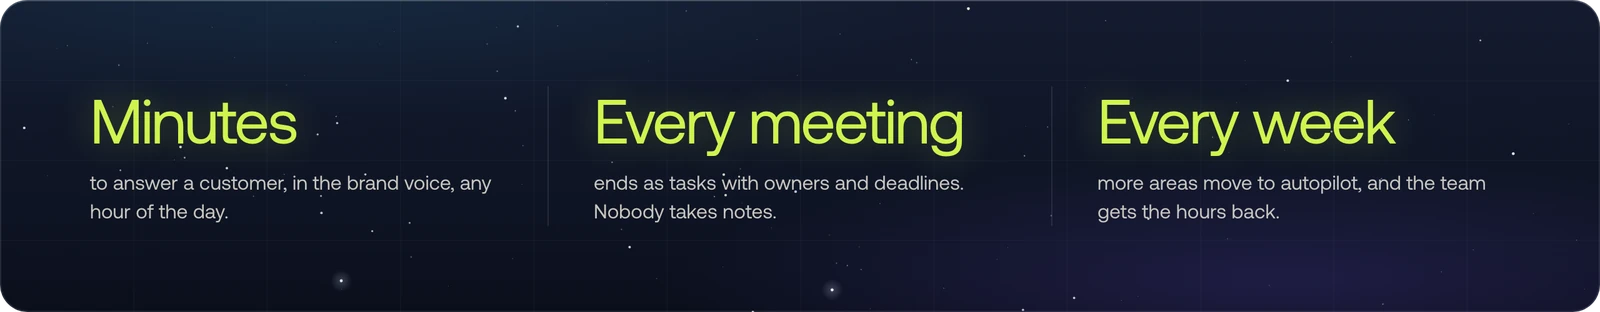
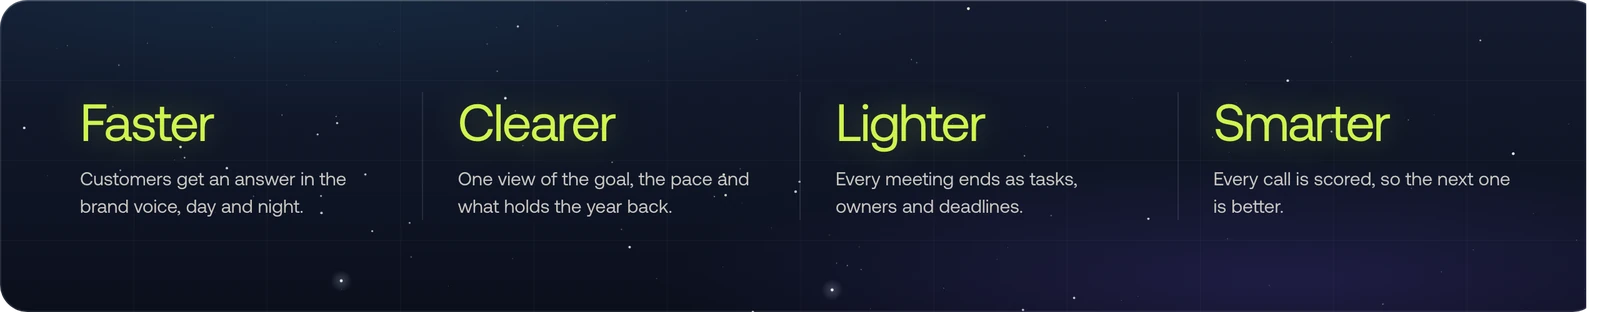
Profile: benefit strips for all three projects, measured vaken number

diff --git a/README.md b/README.md
@@ -20,6 +20,8 @@ Before Elvy I spent many years on strategy, growth and digital transformation fo
 
 <img src="assets/elvy-hero.webp" alt="elvyenergy.com: 4.5× the conversion. A new site on a new design system, then one tested change at a time." width="100%">
 
+<img src="assets/elvy-proof.webp" alt="4.5× the conversion, faster changes with no CMS, always on brand, measured honestly." width="100%">
+
 The new site went live on 10 July, built on a new design system: made in Figma, then turned into tokens, components and code. Since launch I have run it. New pages and designs, SEO, conversion work, content, tracking, and the connections to our sales tools.
 
 Conversion more than doubled in the first month. Then it kept climbing, one tested change at a time. Today the site converts 4.5× better than the old one did, with brand-awareness campaigns left out.
@@ -51,7 +53,7 @@ Stack: Next.js (App Router), React 19, TypeScript, Tailwind v4, next-intl, React
 
 <img src="assets/apollo-hero.webp" alt="A small team. The reach of a big one. The Apollo ship flies from Earth toward the Moon." width="100%">
 
-<img src="assets/apollo-proof.webp" alt="Minutes to answer a customer. Every meeting ends as tasks. Every week more areas move to autopilot." width="100%">
+<img src="assets/apollo-proof.webp" alt="Faster, clearer, lighter, smarter: answers day and night, one view of the goal, meetings become tasks, every call is scored." width="100%">
 
 **Apollo takes the routine work, so the team spends its time on ideas, bold tests and customers. Every week it carries a little more.**
 
@@ -108,7 +110,9 @@ Stack: Next.js 16, Supabase (EU), Inngest, Anthropic SDK, Vercel. [Full write-up
 
 <img src="assets/vaken-hero.webp" alt="vaken: stays awake, so you don't have to. It stops git reset --hard and waits for your OK." width="100%">
 
-<img src="assets/vaken-proof.webp" alt="75% less context on large, long-running sessions. Risky commands wait for your OK. 10 sessions, one calm pane." width="100%">
+<img src="assets/vaken-proof.webp" alt="About 70% lighter long sessions, safer commands, one pane for ten sessions, and private by design." width="100%">
+
+<sub>How we measured "about 70% lighter": the median of 361 compactions of sessions larger than 150,000 tokens in my own Claude Code use, October 2026. Context before the compaction against the first request after it.</sub>
 
 Run ten Claude Code sessions and still know exactly where each one stands. vaken is my first public plugin. It looks like part of the app, stops risky steps like `git reset --hard` when Claude Code would not ask first, and keeps all its data on your computer.
 
